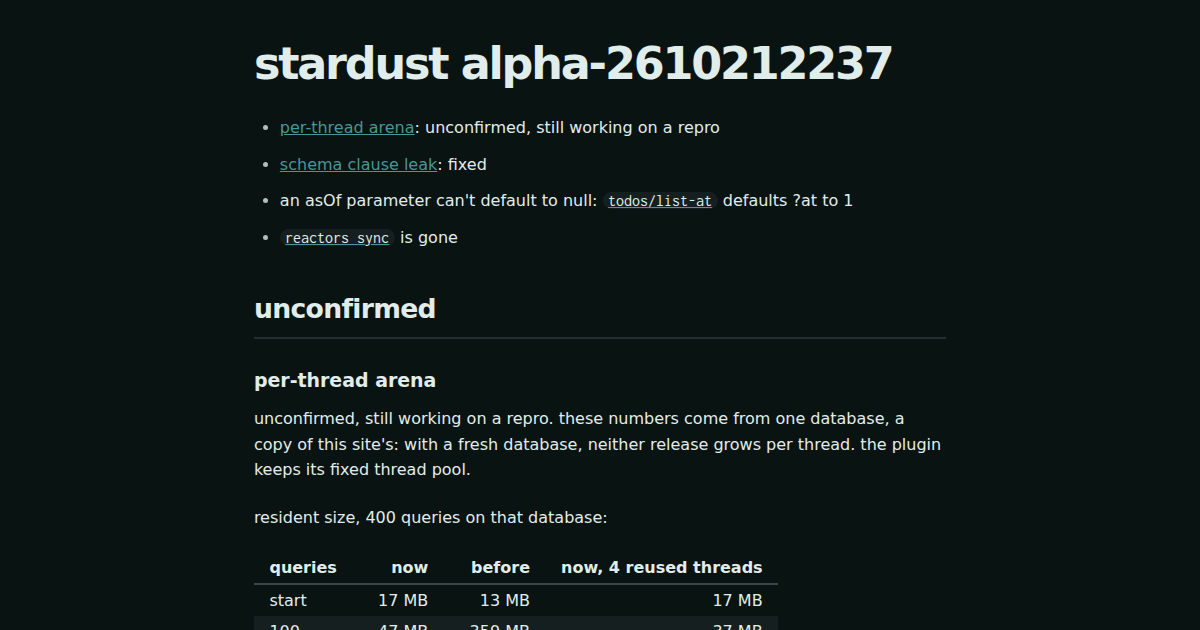
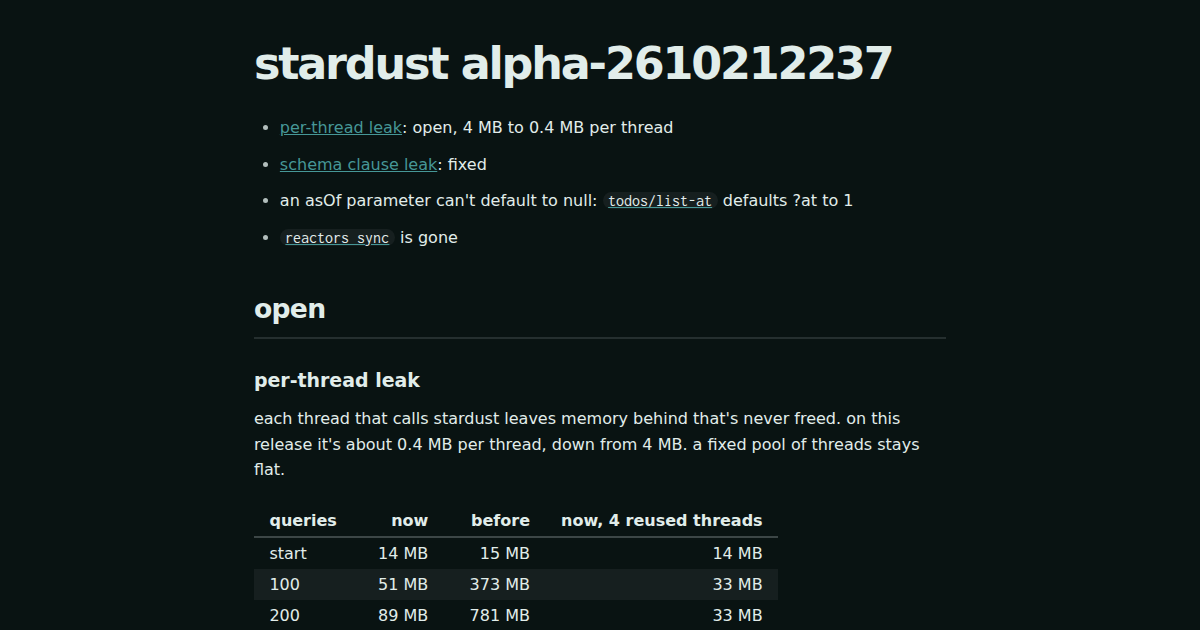
Per-thread leak: confirmed with a self-contained repro (an inline query on a new database)

diff --git a/examples/todomvc/notes/alpha-2610171653/leak.c b/examples/todomvc/notes/alpha-2610171653/leak.c
@@ -1,0 +1,99 @@
+// Stardust C ABI only. Creates an empty database, then runs the same inline
+// query 400 times one of two ways, printing resident size after every 100:
+//
+//   MODE=new  (default) each query on a new pthread, joined before the next
+//             starts
+//   MODE=pool on 4 pthreads that live for the whole run, 25 queries each per
+//             100
+//
+//   STARDUST_LICENSE=... MODE=new ./leak new.db
+#include <pthread.h>
+#include <stdio.h>
+#include <stdlib.h>
+#include <string.h>
+#include "stardust.h"
+
+static stardust_db *db;
+static stardust_document *query_doc;
+static pthread_barrier_t step;
+
+static stardust_bytes bytes(const char *s) { return (stardust_bytes){(const uint8_t *)s, (int64_t)strlen(s)}; }
+
+static long rss_mb(void) {
+    FILE *f = fopen("/proc/self/status", "r");
+    char line[256];
+    long kb = 0;
+    while (fgets(line, sizeof line, f))
+        if (!strncmp(line, "VmRSS:", 6)) kb = atol(line + 6);
+    fclose(f);
+    return kb / 1024;
+}
+
+static void report(const char *label) { printf("%-12s rss %5ld MB\n", label, rss_mb()); }
+
+static void query(void) {
+    stardust_db_source src = {STARDUST_SOURCE_DOCUMENT, 0, {0}, query_doc};
+    stardust_db_query_options opts = {sizeof opts, 1, 0, 0, 0, 0};
+    stardust_db_query *q = NULL;
+    stardust_db_rows *rows = NULL;
+    stardust_result *page = NULL;
+    if (stardust_db_query_open(db, &src, &q) != 0) { puts("query_open failed"); exit(1); }
+    if (stardust_db_query_run(q, NULL, &opts, NULL, &rows) != 0) { puts("run failed"); exit(1); }
+    stardust_db_rows_next(rows, &page);
+    if (page) stardust_result_release(page);
+    stardust_db_rows_release(rows);
+    stardust_db_query_release(q);
+}
+
+static void *one(void *arg) { query(); return NULL; }
+
+// A pool worker: 25 queries, then wait for the report, four times.
+static void *worker(void *arg) {
+    for (int b = 0; b < 4; b++) {
+        for (int i = 0; i < 25; i++) query();
+        pthread_barrier_wait(&step);
+        pthread_barrier_wait(&step);
+    }
+    return NULL;
+}
+
+int main(int argc, char **argv) {
+    int pool = getenv("MODE") && !strcmp(getenv("MODE"), "pool");
+    if (stardust_activate(bytes(getenv("STARDUST_LICENSE"))) != 0) { puts("activate failed"); return 1; }
+    stardust_db_options o;
+    memset(&o, 0, sizeof o);
+    o.size = sizeof o;
+    o.version = 1;
+    o.create = 1;
+    stardust_result *r = NULL;
+    if (stardust_db_open(bytes(argv[1]), &o, &db, &r) != 0) { puts("open failed"); return 1; }
+    if (r) stardust_result_release(r);
+    const char *text = "{find [?e ?text] where [[?e text ?text]]}";
+    if (stardust_parse(bytes(text), STARDUST_DUST, &query_doc) != 0) { puts("parse failed"); return 1; }
+    query();
+    report("start");
+    char label[32];
+    if (pool) {
+        pthread_t ts[4];
+        pthread_barrier_init(&step, NULL, 5);
+        for (int i = 0; i < 4; i++) pthread_create(&ts[i], NULL, worker, NULL);
+        for (int b = 1; b <= 4; b++) {
+            pthread_barrier_wait(&step);  // the workers have run this 100
+            snprintf(label, sizeof label, "%d queries", b * 100);
+            report(label);
+            pthread_barrier_wait(&step);
+        }
+        for (int i = 0; i < 4; i++) pthread_join(ts[i], NULL);
+    } else {
+        for (int b = 1; b <= 4; b++) {
+            for (int i = 0; i < 100; i++) {
+                pthread_t t;
+                pthread_create(&t, NULL, one, NULL);
+                pthread_join(t, NULL);
+            }
+            snprintf(label, sizeof label, "%d queries", b * 100);
+            report(label);
+        }
+    }
+    return 0;
+}

diff --git a/src/pool.rs b/src/pool.rs
@@ -1,12 +1,12 @@
 //! A fixed set of threads for every call into Stardust.
 //!
-//! With the TodoMVC example's database, Stardust kept memory for each thread
-//! that called into it, up to 4 MB, and didn't reclaim it when the thread
-//! exited (unconfirmed: a fresh database doesn't show it). nu runs a plugin
-//! call on a new thread whenever its runner thread is busy, which it is
-//! while any stream is open, so calling Stardust from there grew the plugin
-//! with every call until it was OOM-killed. Calls run here instead, on at
-//! most `size()` threads that live as long as the plugin.
+//! Stardust keeps memory for each thread that runs a query, and doesn't
+//! reclaim it when the thread exits: about 4 MB per thread in
+//! alpha-2610171653, about 0.4 MB in alpha-2610212237. nu runs a plugin call
+//! on a new thread whenever its runner thread is busy, which it is while any
+//! stream is open, so calling Stardust from there grows the plugin with
+//! every call until it is OOM-killed. Calls run here instead, on at most
+//! `size()` threads that live as long as the plugin.
 
 use std::panic::{self, AssertUnwindSafe};
 use std::sync::mpsc::{self, Sender};

diff --git a/examples/todomvc/notes/alpha-2610171653/index.md b/examples/todomvc/notes/alpha-2610171653/index.md
@@ -1,33 +1,41 @@
 ---
-description: "schema clause leak: about 0.25 MB per commit, never freed. per-thread arena: unconfirmed, still working on a repro."
+description: "per-thread leak: about 4 MB per thread, never freed. schema clause leak: about 0.25 MB per commit, never freed."
 # Each file beside this page, shown at the end of the section with that id.
 code:
+  leak.c: per-thread
   subcommit.c: schema-clause
 ---
 # stardust alpha-2610171653
 
-- [per-thread arena](#per-thread): unconfirmed, still working on a repro. the
+- [per-thread leak](#per-thread): about 4 MB per thread, never freed. the
   plugin uses a fixed thread pool
 - [schema clause leak](#schema-clause): about 0.25 MB per commit, never
   freed. fixed in [alpha-2610212237](../alpha-2610212237/#schema-clause)
 
-## per-thread arena {#per-thread}
+## per-thread leak {#per-thread}
 
-unconfirmed, still working on a repro. memory grew with every new thread
-that called stardust, and wasn't freed when the thread exited. a fixed pool
-of threads stayed flat. but these numbers come from one database, a copy of
-this site's: with a fresh database, neither this release nor the next one
-grows.
+memory grows with every new thread that calls stardust, and isn't freed when
+the thread exits. a fixed pool of threads stays flat.
 
-resident size, 400 queries on that database:
+[`leak.c`](#leak-c) creates a new, empty database and runs one inline query
+400 times: on a new thread each ([`MODE=new`](#leak-c)), or on 4 reused
+threads ([`MODE=pool`](#leak-c)).
+
+```
+gcc -O2 -I$STARDUST/abi leak.c -L$STARDUST/lib/linux_amd64 -lstardust -lpthread \
+  -Wl,-rpath,$STARDUST/lib/linux_amd64 -o leak
+STARDUST_LICENSE=... MODE=new ./leak new.db
+```
+
+resident size:
 
 | queries | a new thread each | 4 reused threads |
 |---|---|---|
-| start | 13 MB | 13 MB |
-| 100 | 359 MB | 33 MB |
-| 200 | 759 MB | 33 MB |
-| 300 | 1159 MB | 33 MB |
-| 400 | 1559 MB | 33 MB |
+| start | 15 MB | 15 MB |
+| 100 | 373 MB | 48 MB |
+| 200 | 781 MB | 48 MB |
+| 300 | 1189 MB | 48 MB |
+| 400 | 1597 MB | 48 MB |
 
 ## schema clause leak {#schema-clause}
 

diff --git a/examples/todomvc/notes/alpha-2610212237/index.md b/examples/todomvc/notes/alpha-2610212237/index.md
@@ -1,35 +1,34 @@
 ---
-description: "schema clause leak: fixed. per-thread arena: unconfirmed, still working on a repro."
+description: "per-thread leak: open, 4 MB to 0.4 MB per thread. schema clause leak: fixed."
 # The repro code, from the release where it was written, shown at the end of
 # the section with that id.
 code_from: ../alpha-2610171653
 code:
+  leak.c: per-thread
   subcommit.c: schema-clause
 ---
 # stardust alpha-2610212237
 
-- [per-thread arena](#per-thread): unconfirmed, still working on a repro
+- [per-thread leak](#per-thread): open, 4 MB to 0.4 MB per thread
 - [schema clause leak](#schema-clause): fixed
 - an asOf parameter can't default to null: [`todos/list-at`](https://github.com/cablehead/nu_plugin_stardust/blob/f5e0c7a/examples/todomvc/serve.nu#L92) defaults ?at to 1
 - [`reactors sync`](https://github.com/cablehead/nu_plugin_stardust/commit/e168e50) is gone
 
-## unconfirmed {#unconfirmed}
+## open {#open}
 
-### per-thread arena {#per-thread}
+### per-thread leak {#per-thread}
 
-unconfirmed, still working on a repro. these numbers come from one
-database, a copy of this site's: with a fresh database, neither release
-grows per thread. the plugin keeps its fixed thread pool.
-
-resident size, 400 queries on that database:
+each thread that calls stardust leaves memory behind that's never freed. on
+this release it's about 0.4 MB per thread, down from 4 MB. a fixed pool of
+threads stays flat.
 
 | queries | now | before | now, 4 reused threads |
 |---|---|---|---|
-| start | 17 MB | 13 MB | 17 MB |
-| 100 | 47 MB | 359 MB | 37 MB |
-| 200 | 80 MB | 759 MB | 37 MB |
-| 300 | 109 MB | 1159 MB | 37 MB |
-| 400 | 135 MB | 1559 MB | 37 MB |
+| start | 14 MB | 15 MB | 14 MB |
+| 100 | 51 MB | 373 MB | 33 MB |
+| 200 | 89 MB | 781 MB | 33 MB |
+| 300 | 127 MB | 1189 MB | 33 MB |
+| 400 | 161 MB | 1597 MB | 33 MB |
 
 ## fixed {#fixed}
 

diff --git a/examples/todomvc/README.md b/examples/todomvc/README.md
@@ -142,10 +142,10 @@ checks the id is a todo (`todos/get`) before deleting.
   which ends it. See the plugin README's known limitations.
 - http-nu interrupts a disconnected viewer's request and logs it as an error
   (`Operation interrupted`). Other viewers are unaffected.
-- With this site's database, Stardust kept memory for each thread that
-  called into it, and didn't reclaim it when the thread exited. It's
-  unconfirmed: a fresh database doesn't show it, and a repro is in progress
-  (see [`notes/`](notes)). nu runs plugin calls on new threads, so the plugin
+- Stardust keeps memory for each thread that runs a query, and doesn't
+  reclaim it when the thread exits: about 4 MB per thread in
+  alpha-2610171653, about 0.4 MB in alpha-2610212237 (see
+  [`notes/`](notes)). nu runs plugin calls on new threads, so the plugin
   makes every Stardust call from a fixed pool of threads instead
   (`src/pool.rs`).
 - If the plugin dies, out of memory for instance, nu starts a new plugin,

diff --git a/README.md b/README.md
@@ -211,9 +211,9 @@ Entity references stay as `{#link id}` records.
 - **Threads.** In this release the database and its handles are `Send + Sync`,
   so one plugin process serves every call. All jobs in a nu session share it.
   Every call into Stardust runs on a small fixed pool of threads
-  (`src/pool.rs`): with this site's database, Stardust kept memory for each
-  thread that called it, even after the thread exited (unconfirmed, see the
-  TodoMVC notes), and nu runs plugin calls on new threads.
+  (`src/pool.rs`): Stardust keeps memory for each thread that runs a query,
+  even after the thread exits (see the TodoMVC notes), and nu runs plugin
+  calls on new threads.
 - **Subscriptions.** The binding's `next` is async; nu streams are iterators.
   So the stream polls `next().await` on its own thread, parking until
   Stardust wakes it.
